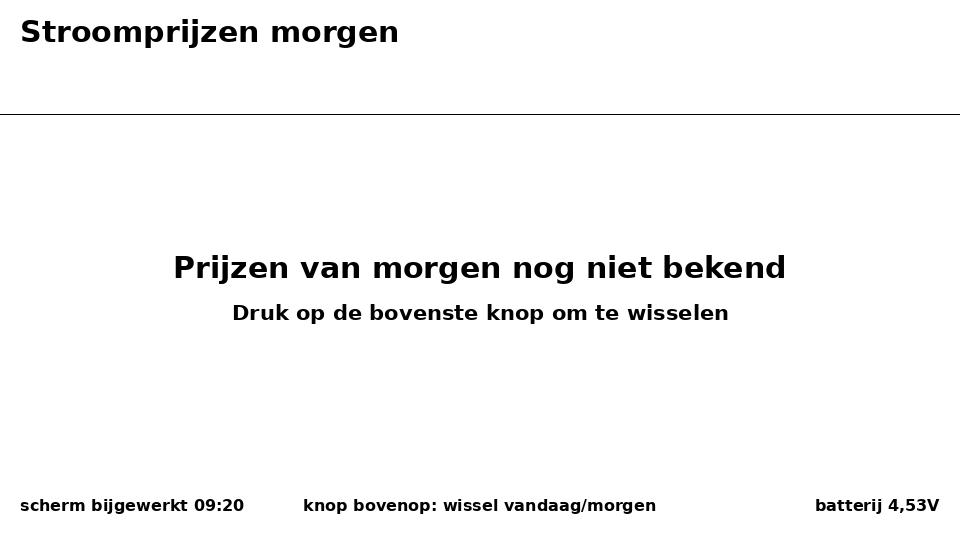
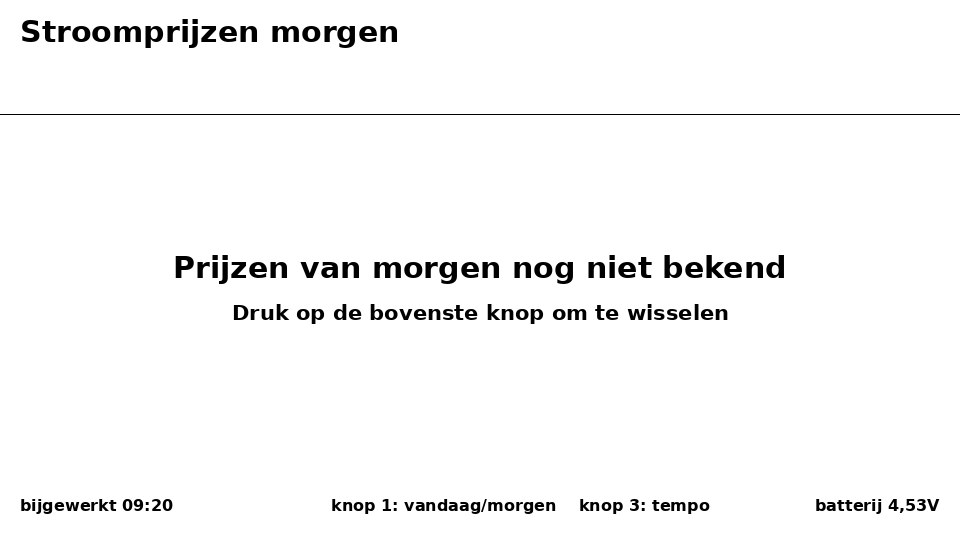
Knop 3 schakelt het ververstempo, met nachtbesparing
Standaard blijft het zuinige schema (00:07 en 22:02). Knop 3 (GPIO35) zet het
scherm op elk uur op HH:07, zodat het huidige uur altijd klopt. Tussen 01:00 en
05:00 slaat hij de wakes over - 20 in plaats van 24 per dag, en je mist er
niets mee omdat het beeld 's nachts niet verandert. 00:07 blijft wel staan:
dat is het moment waarop de datum omslaat.

De keuze zit in een global met restore_value: yes en overleeft dus deep sleep;
linksonder op het scherm staat welke stand actief is.

Knop 3 kan het apparaat niet wekken (ext1 ALL_LOW, zie hoofdstuk 7), dus je
wekt eerst met knop 1 of reset. Om te voorkomen dat het wakkere venster onder
je handen afloopt heeft enter_sleep nu mode: restart en roept elke on_press het
script opnieuw aan - een tweede execute zou anders genegeerd worden.

Claude-Session: https://claude.ai/code/session_017anW5jJQF2iobA1arDdBDG

Changed region(s): [[0.3125, 0.9185, 0.75, 0.9481], [0.0, 0.9185, 0.25, 0.9481]]

diff --git a/tools/render_preview.py b/tools/render_preview.py
@@ -41,7 +41,7 @@ def draw_text(d, xy, txt, fnt, anchor="la", fill=BLACK):
     d.text(xy, txt, font=fnt, fill=fill, anchor=anchor)
 
 
-def render(prices, is_today, current_idx, date_str, filename, updated_str="21:03", gas=None):
+def render(prices, is_today, current_idx, date_str, filename, updated_str="21:03", gas=None, hourly=False):
     img = Image.new("RGB", (W, H), WHITE)
     d = ImageDraw.Draw(img)
 
@@ -151,8 +151,9 @@ def render(prices, is_today, current_idx, date_str, filename, updated_str="21:03
               f"Hoogste: {price_max*100:.1f}".replace(".", ",") + f" ct ({max_h:02d}:00)", f_footer_bold)
 
     # was y=505 -> viel tegen de onderrand aan; nu 496
-    draw_text(d, (20, 496), f"scherm bijgewerkt {updated_str}", f_small)
-    draw_text(d, (480, 496), "knop bovenop: wissel vandaag/morgen", f_small, anchor="ma")
+    tempo = "elk uur" if hourly else "2x per dag"
+    draw_text(d, (20, 496), f"bijgewerkt {updated_str} - {tempo}", f_small)
+    draw_text(d, (520, 496), "knop 1: vandaag/morgen    knop 3: tempo", f_small, anchor="ma")
     draw_text(d, (940, 496), "batterij 4,53V", f_small, anchor="ra")
 
     img.save(filename)
@@ -179,13 +180,13 @@ def render_unknown(filename, updated_str="09:20"):
     d.line([(0, 114), (960, 114)], fill=BLACK, width=1)
     draw_text(d, (480, 250), "Prijzen van morgen nog niet bekend", f_title, anchor="ma")
     draw_text(d, (480, 300), "Druk op de bovenste knop om te wisselen", f_footer, anchor="ma")
-    draw_text(d, (20, 496), f"scherm bijgewerkt {updated_str}", f_small)
-    draw_text(d, (480, 496), "knop bovenop: wissel vandaag/morgen", f_small, anchor="ma")
+    draw_text(d, (20, 496), f"bijgewerkt {updated_str}", f_small)
+    draw_text(d, (520, 496), "knop 1: vandaag/morgen    knop 3: tempo", f_small, anchor="ma")
     draw_text(d, (940, 496), "batterij 4,53V", f_small, anchor="ra")
     img.save(filename)
     print("saved", filename)
 
 
-render(today, True, 14, "03-09-2026", "../docs/preview-vandaag.png", updated_str="14:07", gas=GAS)
+render(today, True, 14, "03-09-2026", "../docs/preview-vandaag.png", updated_str="14:07", gas=GAS, hourly=True)
 render(tomorrow, False, 0, "04-09-2026", "../docs/preview-morgen.png", updated_str="22:02")
 render_unknown("../docs/preview-morgen-onbekend.png")

diff --git a/README.md b/README.md
@@ -93,7 +93,8 @@ day-ahead-fetch. Het half-uurritme is er vooral voor zelfherstel: staat de
 integratie bij HA-opstart nog niet klaar, dan is de sensor binnen 30 minuten
 alsnog gevuld.
 
-Het apparaat wordt om **00:07** en **22:02** wakker. Bij die geplande wakes kiest het scherm zelf de
+Het apparaat wordt standaard om **00:07** en **22:02** wakker. Met knop 3 zet je
+het op **elk uur** (zie Bediening). Bij die geplande wakes kiest het scherm zelf de
 logische weergave: 's nachts vandaag, vanaf 22:00 morgen. Zo zie je 's avonds
 of je de vaatwasser 's nachts moet laten draaien of beter tot morgenmiddag
 kunt wachten.
@@ -122,6 +123,27 @@ Zijn de prijzen van morgen nog niet gepubliceerd, dan toont het scherm
 firmware vergelijkt daarvoor het `datum`-attribuut van de sensor met zijn eigen
 berekende datum van morgen; komen die niet overeen, dan is de sensor blijven
 hangen op een mislukte fetch.
+
+### Knop 3: het ververstempo
+
+Standaard wordt het scherm twee keer per dag getekend. Dat is zuinig, maar het
+"huidige uur" klopt dan een groot deel van de dag niet meer. Knop 3 (GPIO35)
+schakelt naar **elk uur op HH:07**, met een **nachtbesparing**: tussen 01:00 en
+05:00 slaat hij de wakes over — er verandert 's nachts toch niets aan het beeld
+dat je dan ziet. Dat zijn 20 wakes per dag in plaats van 24.
+
+Reken op ongeveer **tienmaal het accuverbruik** van de zuinige stand: ~5 minuten
+per dag wakker (inclusief het OTA-venster van 10 s per wake) tegenover ~30
+seconden. Nog eens drukken zet hem terug.
+
+De keuze staat in een global met `restore_value: yes` en overleeft dus deep
+sleep. Welke stand actief is lees je linksonder op het scherm af:
+`bijgewerkt 14:07 - elk uur` of `- 2x per dag`.
+
+> **Knop 3 kan het apparaat niet wekken** — alleen GPIO39 kan dat. Wek hem dus
+> eerst met knop 1 of de resetknop, en druk daarna op knop 3. Sinds deze
+> wijziging start elke knopdruk het wakkere venster van 10 seconden opnieuw
+> (`mode: restart` op het `enter_sleep`-script), dus je hebt rustig de tijd.
 
 De middelste knop (GPIO34) houdt het apparaat wakker voor onderhoud/OTA.
 
@@ -176,7 +198,7 @@ epdiy-boarddefinitie.
 |---|---|
 | 39 | Wake uit deep sleep + **wisselen tussen vandaag en morgen** (bovenste zijknop) |
 | 34 | Stay-awake: houdt het apparaat wakker voor onderhoud/OTA |
-| 35 | Vrij |
+| 35 | Ververstempo: elk uur ↔ 2x per dag |
 | 36 | Accuspanning (ADC, deler x2) |
 
 Knop 1 moest de wisselknop worden omdat hij als enige het apparaat kan wekken:

diff --git a/docs/troubleshooting.md b/docs/troubleshooting.md
@@ -427,3 +427,52 @@ zonder op de volgende tijdtrigger te wachten.
 De gedeelde `glyphs`-anchor moest `€³` erbij voor "€/m³ gas". Vergeet je dat,
 dan faalt de build met `Codepoint 0x000020ac not found in font`. Dezelfde
 valkuil als eerder met de `/` voor "ct/kWh".
+
+---
+
+## 10. Een tweede knop terwijl er maar één kan wekken
+
+Knop 3 (GPIO35) schakelt het ververstempo om: elk uur, of het zuinige schema van
+twee keer per dag. Twee dingen die daarbij tegenvielen.
+
+**Knop 3 kan niet wekken.** Dat is dezelfde ext1-beperking als in hoofdstuk 7:
+de wakeup staat op `ALL_LOW` en zou dus vereisen dat je *alle* opgegeven pinnen
+tegelijk laag maakt. Knop 3 werkt daarom alleen terwijl het apparaat al wakker
+is: eerst wekken met knop 1 of de resetknop, dan pas knop 3.
+
+**Het wakkere venster liep af onder je handen.** Het `enter_sleep`-script begint
+met `delay: 10s`, geteld vanaf het moment dat het script start. Druk je op t=9 s
+op een knop, dan is er geen tijd meer om de hertekening (~3,5 s) te zien.
+Oplossing: het script `mode: restart` geven en het vanuit elke `on_press`
+opnieuw aanroepen:
+
+```yaml
+script:
+  - id: enter_sleep
+    mode: restart
+    then:
+      - delay: 10s
+      ...
+```
+
+Zonder `mode: restart` doet een tweede `script.execute` niets: de default is
+`single`, en die negeert een tweede aanroep (met een waarschuwing in de log).
+
+### De nachtbesparing
+
+In uurmodus slaat de slaaplambda de uren 01 t/m 04 over. Belangrijk detail:
+**00:07 blijft wél staan**, want dat is het moment waarop de datum omslaat en de
+sensoren de nieuwe dag publiceren. De volgende wake is dan pas 05:07.
+
+```cpp
+next_s = -1;
+for (int hh = 0; hh < 24; hh++) {
+  if (hh > 0 && hh < 5) continue;
+  int cand = hh * 3600 + 7 * 60;
+  if (cand > now_s) { next_s = cand; break; }
+}
+if (next_s < 0) next_s = 24 * 3600 + 7 * 60;   // morgen 00:07
+```
+
+De `next_s < 0`-tak is niet theoretisch: druk je 's avonds na 23:07 op een knop,
+dan ligt er geen kandidaat meer vóór middernacht.
